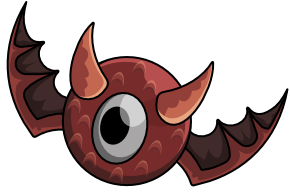
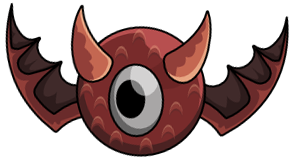
polishing

diff --git a/src/game/enemies/enemy.cpp b/src/game/enemies/enemy.cpp
@@ -5,8 +5,12 @@ Enemy::Enemy(double x, double y)
     currentPos.x = x;
     currentPos.y = y;
 
-    state.last_shot = StateManager::Get().GetTicks();
-    state.health = stats.max_health;
+    auto& state_manager = StateManager::Get();
+
+    state.last_shot = state_manager.GetTicks();
+
+    state.health = stats.max_health = state_manager.enemy_stats.health;
+    stats.attack_damage = state_manager.enemy_stats.attack_damage;
 }
 
 void Enemy::update(double delta)
@@ -105,15 +109,19 @@ void Enemy::shoot()
     state.last_shot = StateManager::Get().GetTicks();
     auto player = StateManager::Get().player;
     auto player_p = StateManager::Get().player->GetPosition();
-    double x_diff = (player_p.x + (player->GetWidth() / 2)) - this->currentPos.x;
-    double y_diff = (player_p.y + (player->GetHeight() / 2)) - this->currentPos.y;
 
-    double dist = sqrt(pow(x_diff, 2) + pow(y_diff, 2));
+    double current_x = this->currentPos.x + (width/2);
+    double current_y = this->currentPos.y + (height/2);
+
+    double x_diff = (player_p.x + (player->GetWidth() / 2)) - current_x;
+    double y_diff = (player_p.y + (player->GetHeight() / 2)) - current_y;
+
+    double dist = sqrt((x_diff, 2) + pow(y_diff, 2));
 
     double x_dir = x_diff / dist;
     double y_dir = y_diff / dist;
 
-    auto p = std::make_shared<Projectile>(this->currentPos.x, this->currentPos.y, x_dir * 0.3, y_dir * 0.3);
+    auto p = std::make_shared<Projectile>(current_x, current_y, x_dir * stats.projectile_speed, y_dir * stats.projectile_speed);
     p->dmg = stats.attack_damage;
 
     StateManager::Get().AddEntity(p);

diff --git a/src/game/StateManager.cpp b/src/game/StateManager.cpp
@@ -52,16 +52,19 @@ void StateManager::Update(double delta)
 void StateManager::Tick()
 {
 
-    if (game_state.enemies_spawn_remain && ticks - game_state.last_spawn_tick >= 60)
+
+
+    if (game_state.enemies_spawn_remain && ticks - game_state.last_spawn_tick >= 66)
     {
         game_state.enemies_spawn_remain--;
         game_state.enemies_count++;
         game_state.last_spawn_tick = ticks;
 
-        std::uniform_real_distribution<double> distr(0.000001, 0.9999);
+        std::uniform_real_distribution<double> distr_x(0.1, 0.85);
+        std::uniform_real_distribution<double> distr_y(0.1, 0.4);
 
-        double x = std::fmod(distr(random_eng), 0.85);
-        double y = std::fmod(distr(random_eng), 0.4);
+        double x = distr_x(random_eng);
+        double y = distr_y(random_eng);
 
         append_entity.push_back(std::make_shared<Enemy>(x, y));
     }
@@ -106,9 +109,18 @@ size_t StateManager::GetTicks() const
 
 void StateManager::NextRound()
 {
+    
     game_state.round++;
     game_state.enemies_spawn_remain = (3 + (game_state.round * 0.5));
-    enemy_stats.health += 1;
+    
+    if(game_state.round > 1){
+        enemy_stats.health += 1;
+        enemy_stats.attack_damage += 0.25;
+        player->stats.max_health += 2;
+        player->heal(2);
+    }
+
+
     current_scene = "main";
     main_scene->NextRound(); // remove all entities except player
 

diff --git a/src/game/scenes/main/main_scene.cpp b/src/game/scenes/main/main_scene.cpp
@@ -72,6 +72,22 @@ void MainScene::render()
 
     SDL_RenderCopy(window.get_renderer(), health_text->get(), nullptr, &r_text);
 
+
+    auto round_text = font->Text(std::to_string(state_manager.game_state.round), color);
+    SDL_Rect round_rect;
+
+    round_rect.x = static_cast<int>(0.90 * window.GetWidth());
+    round_rect.y = static_cast<int>(0.05 * window.GetHeight());
+    round_rect.w = static_cast<int>(0.02 * window.GetWidth());
+    round_rect.h = static_cast<int>(0.06 * window.GetHeight());
+
+    if(state_manager.game_state.round >= 10){
+        round_rect.w *= 2.1;
+    }
+
+    SDL_RenderCopy(window.get_renderer(), round_text->get(), nullptr, &round_rect);
+
+
 }
 
 void MainScene::AddEntity(shared_ptr<Entity> entity)

diff --git a/src/game/game.cpp b/src/game/game.cpp
@@ -10,7 +10,7 @@ Game::Game()
     auto& resources = ResourceManager::Get();
 
     resources.LoadTexture("../assets/images/player/player.png", "player");
-    resources.LoadTexture("../assets/images/enemy/enemy.png", "enemy");
+    resources.LoadTexture("../assets/images/enemy/enemy2.png", "enemy");
 
     resources.LoadFont("../assets/fonts/AncientModernTales.ttf", "ancient24", 72);
 

diff --git a/src/game/enemies/enemy.h b/src/game/enemies/enemy.h
@@ -10,11 +10,11 @@
 
 struct enemy_stats
 {
-    double attack_speed = 1.0;
+    double attack_speed = 0.7;
     double attack_damage = 1.0;
-    double projectile_size = 1.0;
     double max_health = 6.0;
     double speed = 0.2;
+    double projectile_speed = 0.5;
 };
 
 struct enemy_state

diff --git a/src/game/projectiles/projectile.h b/src/game/projectiles/projectile.h
@@ -16,7 +16,7 @@ class Projectile : public Entity
     double velocity_x;
     double velocity_y;
 
-    double size = 0.002;
+    double size = 0.004;
 
 public:
     Projectile(double x, double y, double vel_x, double vel_y);

diff --git a/src/game/scenes/card_scene/card_scene.cpp b/src/game/scenes/card_scene/card_scene.cpp
@@ -29,7 +29,7 @@ CardScene::CardScene()
             }
         }
 
-        cards.emplace_back(card_type, x , 0.1);
+        cards.emplace_back(card_type, x , 0.15);
         x += 0.3;
 
     }

diff --git a/src/game/cards/Card.h b/src/game/cards/Card.h
@@ -23,8 +23,8 @@ class Card
 {
 private:
     double x, y;
-    double width = 0.25;
-    double height = 0.8;
+    double width = 0.20;
+    double height = 0.7;
 
 
 

diff --git a/src/game/StateManager.h b/src/game/StateManager.h
@@ -36,6 +36,7 @@ class Card;
 
 struct EnemyStats {
     double health = 6.0;
+    double attack_damage = 1.0; 
     double attack_speed = 1.0;
 };
 
